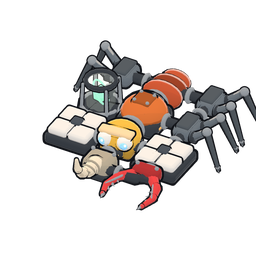
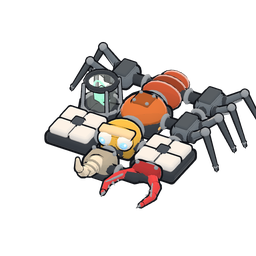
Harder campaign: retune the stops that had become too easy
Snapclaw, Old Scrapjaw, Silkjaw, Mother Lattice, Arcfly, Queen Vexa, Rivet &
Ratchet, Glimmer, Nullshade, Lenswing, Barbtail, Tunnel Kings and the Hive
Guard get more aggression and/or more move-carrying parts. Auto-player win
rates now: bosses 57-67%, optional bosses 33-50%, finale 43%. Re-rendered
portraits.

Claude-Session: https://claude.ai/code/session_01FT8aJXgYMDZrr4uHJvcXkr

Changed region(s): [[0.1562, 0.1562, 1.0, 0.8438]]

diff --git a/src/game/opponents.ts b/src/game/opponents.ts
@@ -147,8 +147,8 @@ export const OPPONENTS: Opponent[] = [
     name: 'Snapclaw',
     blurb: 'Wide pincers and a stubborn shell.',
     arena: 'foundry',
-    aggression: 0.7,
-    build: bug('Snapclaw', ['.pHp.', '.rTr.', '.lTl.', '.lAo.']),
+    aggression: 0.75,
+    build: bug('Snapclaw', ['.pHp.', '.cTc.', '.lTl.', '.lAo.']),
     boss: false,
     guaranteed: [part('legs-strider'), part('legs-strider')],
     lootTable: tierTable('rare'),
@@ -161,7 +161,7 @@ export const OPPONENTS: Opponent[] = [
     blurb: 'Optional. A battered veteran that has out-bitten every newcomer. Teaches Overclock.',
     arena: 'pit',
     aggression: 0.95,
-    build: bug('Old Scrapjaw', ['.Mh..', '.cHc.', '.lTo.', '.lAl.']),
+    build: bug('Old Scrapjaw', ['.Mh..', '.cHc.', '.lTo.', '.sAs.']),
     boss: true,
     optional: true,
     guaranteed: [part('head-octo'), part('core-fusion')],
@@ -195,8 +195,8 @@ export const OPPONENTS: Opponent[] = [
     name: 'Silkjaw',
     blurb: 'An eight-eyed weaver. Its webs pin you down while its jaws go to work.',
     arena: 'meadow',
-    aggression: 0.9,
-    build: bug('Silkjaw', ['.mMm.', '.vCv.', '.oBo.', '.vSv.']),
+    aggression: 1.0,
+    build: bug('Silkjaw', ['.MMM.', '.vCv.', 'coBoc', '.vSv.']),
     boss: false,
     guaranteed: [part('abdomen-spinner'), part('legs-weaver'), part('legs-weaver')],
     lootTable: [...tierTable('rare'), { reward: part('legs-weaver'), weight: 25 }, { reward: part('abdomen-spinner'), weight: 15 }],
@@ -208,7 +208,7 @@ export const OPPONENTS: Opponent[] = [
     name: 'Mother Lattice',
     blurb: 'Optional. The great weaver at the heart of the web. Six legs of pure spite.',
     arena: 'meadow',
-    aggression: 0.88,
+    aggression: 0.93,
     build: bug('Mother Lattice', ['.MCM.', 'vBOBv', 'vKSKv', 'vXoXv']),
     boss: true,
     optional: true,
@@ -235,7 +235,7 @@ export const OPPONENTS: Opponent[] = [
     name: 'Arcfly',
     blurb: 'A crackling flyer. Gets close, stuns you, and blows you into the acid.',
     arena: 'pond',
-    aggression: 0.85,
+    aggression: 0.95,
     build: bug('Arcfly', ['.MtM.', '.eHe.', 'wBOBw', 'sAoAs']),
     boss: false,
     guaranteed: [part('horn-shock'), part('wings-foil'), part('wings-foil')],
@@ -261,8 +261,8 @@ export const OPPONENTS: Opponent[] = [
     name: 'Queen Vexa',
     blurb: 'Hive champion. Drill horn, shear jaws, glass wings. Farmable boss.',
     arena: 'hive',
-    aggression: 0.9,
-    build: bug('Queen Vexa', ['.MhM.', 'cBVBc', 'GBOBG', '.gog.']),
+    aggression: 0.95,
+    build: bug('Queen Vexa', ['.MtM.', 'XBVBX', 'GBOBG', '.sos.']),
     boss: true,
     guaranteed: [part('wings-glass'), part('mand-shear')],
     lootTable: [
@@ -283,9 +283,9 @@ export const OPPONENTS: Opponent[] = [
     name: 'Rivet & Ratchet',
     blurb: 'Two-on-two. The scrapyard twins never fight alone. Bring a second bug from your garage (or borrow Snapclaw).',
     arena: 'foundry',
-    aggression: 0.75,
+    aggression: 0.9,
     build: bug('Rivet', ['.PHP.', 'XBOBX', '.sKs.', '.s.s.']),
-    team: [{ build: bug('Ratchet', ['.MHM.', '.sBs.', '.oKo.', '.s.s.']), aggression: 0.95 }],
+    team: [{ build: bug('Ratchet', ['.MHM.', 'csBsc', '.oKo.', '.s.s.']), aggression: 0.95 }],
     allies: ['snapclaw'],
     boss: false,
     guaranteed: [part('legs-crawler'), part('legs-crawler'), part('thorax-chitin')],
@@ -299,7 +299,7 @@ export const OPPONENTS: Opponent[] = [
     blurb: 'Now you see it. Then you really don’t, until its jaws are already shut.',
     arena: 'pond',
     aggression: 0.9,
-    build: bug('Glimmer', ['.MVM.', 'iBOBi', 'sKoKs', '.s.s.']),
+    build: bug('Glimmer', ['.MVM.', 'iBOBi', 'sKOKs', '.s.s.']),
     boss: false,
     guaranteed: [part('armor-mirage')],
     lootTable: [...tierTable('epic'), { reward: part('armor-mirage'), weight: 20 }],
@@ -312,7 +312,7 @@ export const OPPONENTS: Opponent[] = [
     blurb: 'Optional. An assassin nobody has seen twice. Cloak, laser, and a very short fight.',
     arena: 'foundry',
     aggression: 0.9,
-    build: bug('Nullshade', ['pMzMp', 'iBVBi', 'sOKOs', '.s.s.']),
+    build: bug('Nullshade', ['PMzMP', 'iBVBi', 'sOKOs', '.s.s.']),
     boss: true,
     optional: true,
     guaranteed: [part('sting-lance'), part('armor-mirage'), part('head-visor')],
@@ -325,8 +325,8 @@ export const OPPONENTS: Opponent[] = [
     name: 'Lenswing',
     blurb: 'Hovers out of reach and carves you up with light.',
     arena: 'pit',
-    aggression: 0.6,
-    build: bug('Lenswing', ['.zVz.', 'RBOBR', 'GcAcG', '.o.o.']),
+    aggression: 0.65,
+    build: bug('Lenswing', ['czVzc', 'RBOBR', 'GcKcG', '.o.o.']),
     boss: false,
     guaranteed: [part('sting-laser'), part('sensor-radar')],
     lootTable: [...tierTable('epic'), { reward: part('sting-laser'), weight: 18 }, { reward: part('sensor-radar'), weight: 14 }],
@@ -338,7 +338,7 @@ export const OPPONENTS: Opponent[] = [
     name: 'Barbtail',
     blurb: 'A scorpion build. Its claws pin you so you can\'t dodge, then the tail comes over the top.',
     arena: 'pit',
-    aggression: 0.6,
+    aggression: 0.75,
     build: bug('Barbtail', ['.jHj.', '.TOT.', 'lBKBl', 'lokol']),
     boss: false,
     guaranteed: [part('sting-tail'), part('pinc-grip'), part('pinc-grip')],
@@ -351,7 +351,7 @@ export const OPPONENTS: Opponent[] = [
     name: 'The Tunnel Kings',
     blurb: 'Two-on-two. One digs, one bites. Bring a partner bug (or borrow Silkjaw).',
     arena: 'foundry',
-    aggression: 0.85,
+    aggression: 0.95,
     build: bug('Burrowbane', ['.qVq.', 'sBOBs', '.KKK.', '.s.s.']),
     team: [{ build: bug('Grubjaw', ['.MHM.', 'cBOBc', '.sKs.', '.s.s.']), aggression: 0.9 }],
     allies: ['silkjaw'],
@@ -367,10 +367,10 @@ export const OPPONENTS: Opponent[] = [
     blurb: 'Three-on-three. The Empress’s finest. Bring your squad (or borrow Ironback and Arcfly).',
     arena: 'hive',
     aggression: 0.95,
-    build: bug('Hive Warden', ['.PHP.', 'cBOBc', '.sKs.', '.s.s.']),
+    build: bug('Hive Warden', ['.PHP.', 'XBOBX', 'csKsc', '.s.s.']),
     team: [
-      { build: bug('Stingwing', ['.n.n.', '.eVe.', '.GBG.', '.oOo.', '..A..']), aggression: 0.6 },
-      { build: bug('Shellback', ['.MHM.', 'XBOBX', 'sKoKs', '.s.s.']), aggression: 0.9 },
+      { build: bug('Stingwing', ['.n.n.', '.eVe.', '.GBG.', '.oOo.', '..A..']), aggression: 0.8 },
+      { build: bug('Shellback', ['.MHM.', 'XBOBX', 'sKoKs', '.s.s.']), aggression: 1.0 },
     ],
     allies: ['ironback', 'arcfly'],
     boss: true,

diff --git a/docs/GDD.md b/docs/GDD.md
@@ -225,7 +225,7 @@ The campaign (`src/game/opponents.ts`) is a scrolling map of 19 stops in three z
 
 **Optional bosses** (`optional: true`) sit off the main path, are harder than the stops around them, and pay out signature parts.
 
-**Balance check:** `npm test` plays the whole campaign in order with an auto-built player bug that picks up each stop's rewards. Current win rates for that auto-player: early stops 60–100%, bosses about 50–65%, optional bosses 30–45%, the finale 43%.
+**Balance check:** `npm test` plays the whole campaign in order with an auto-built player bug that picks up each stop's rewards. Current win rates for that auto-player (Nov 2026, after the moves-on-parts retune): the first two stops 70–100%, other regular stops 50–87% (each zone opens a little easier than it ends), bosses 57–67%, optional bosses 33–50%, the finale 43%. Rear-mounted ranged weapons on a kiting bug are very strong for the AI (a Lenswing with a rear stinger won 29 of 30), so opponents avoid them for now.
 
 Each opponent has:
 - `guaranteed: Reward[]` — given **once**, on first clear (parts).
